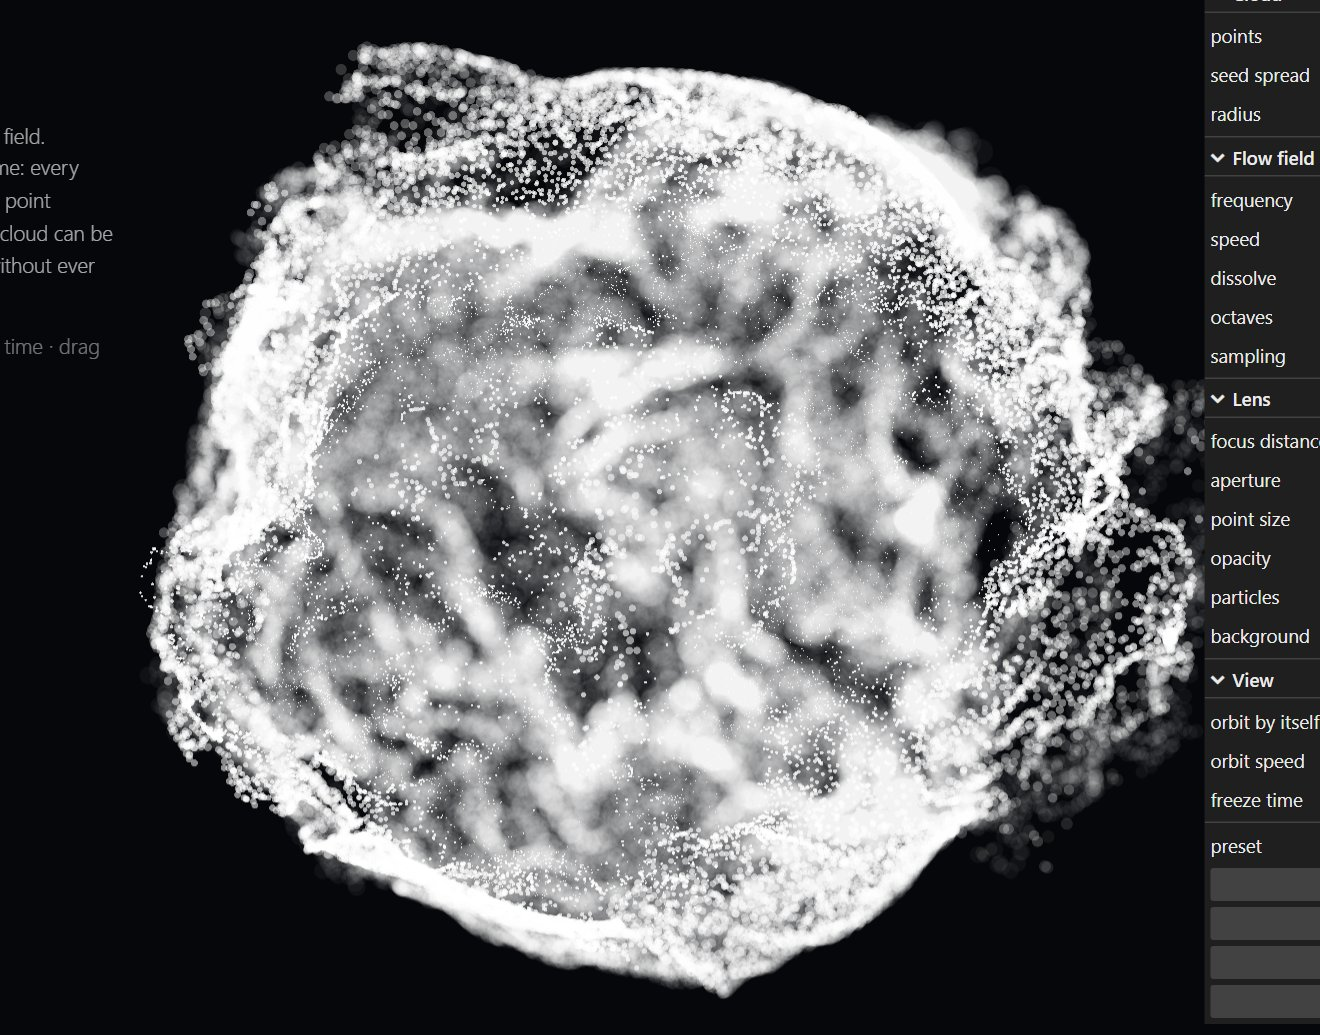
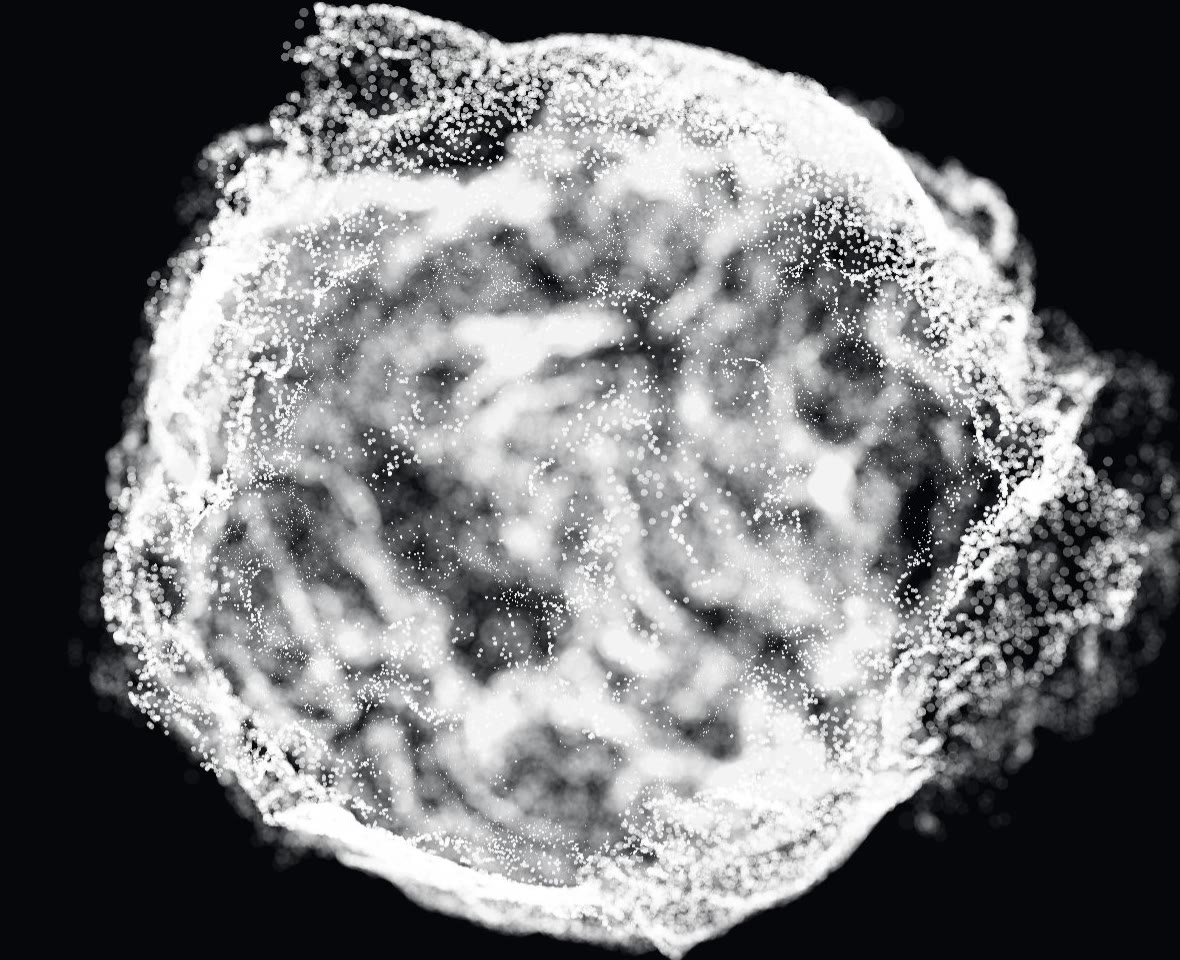
Clean screenshots and a threads preset that actually makes threads

diff --git a/src/settings.js b/src/settings.js
@@ -29,7 +29,9 @@ export const DEFAULTS = {
 export const PRESETS = {
     bubble: {},
     nebula: { curl: 0.24, dissolve: 0.55, aperture: 2.6, speed: 4.5, opacity: 0.85, count: 70000, color: "#cfe3ff" },
-    threads: { curl: 1.15, dissolve: 1.2, aperture: 5.2, speed: 14, pointScale: 0.7, count: 90000 },
+    /* Threads come from a small seed spread, not from a high frequency: neighbours start close in the
+       noise, so they follow each other through every fold and draw a line together. */
+    threads: { curl: 0.3, dissolve: 0.7, aperture: 4.4, speed: 8, pointScale: 1.5, count: 120000, spread: 40 },
     ember: { curl: 0.6, dissolve: 0.2, aperture: 2, speed: 6, color: "#ffb47a", background: "#140b06", pointScale: 1.6 },
     ink: { curl: 0.35, dissolve: -0.25, aperture: 3.4, speed: 3, color: "#101014", background: "#f1f0ea", opacity: 0.55 },
 };
